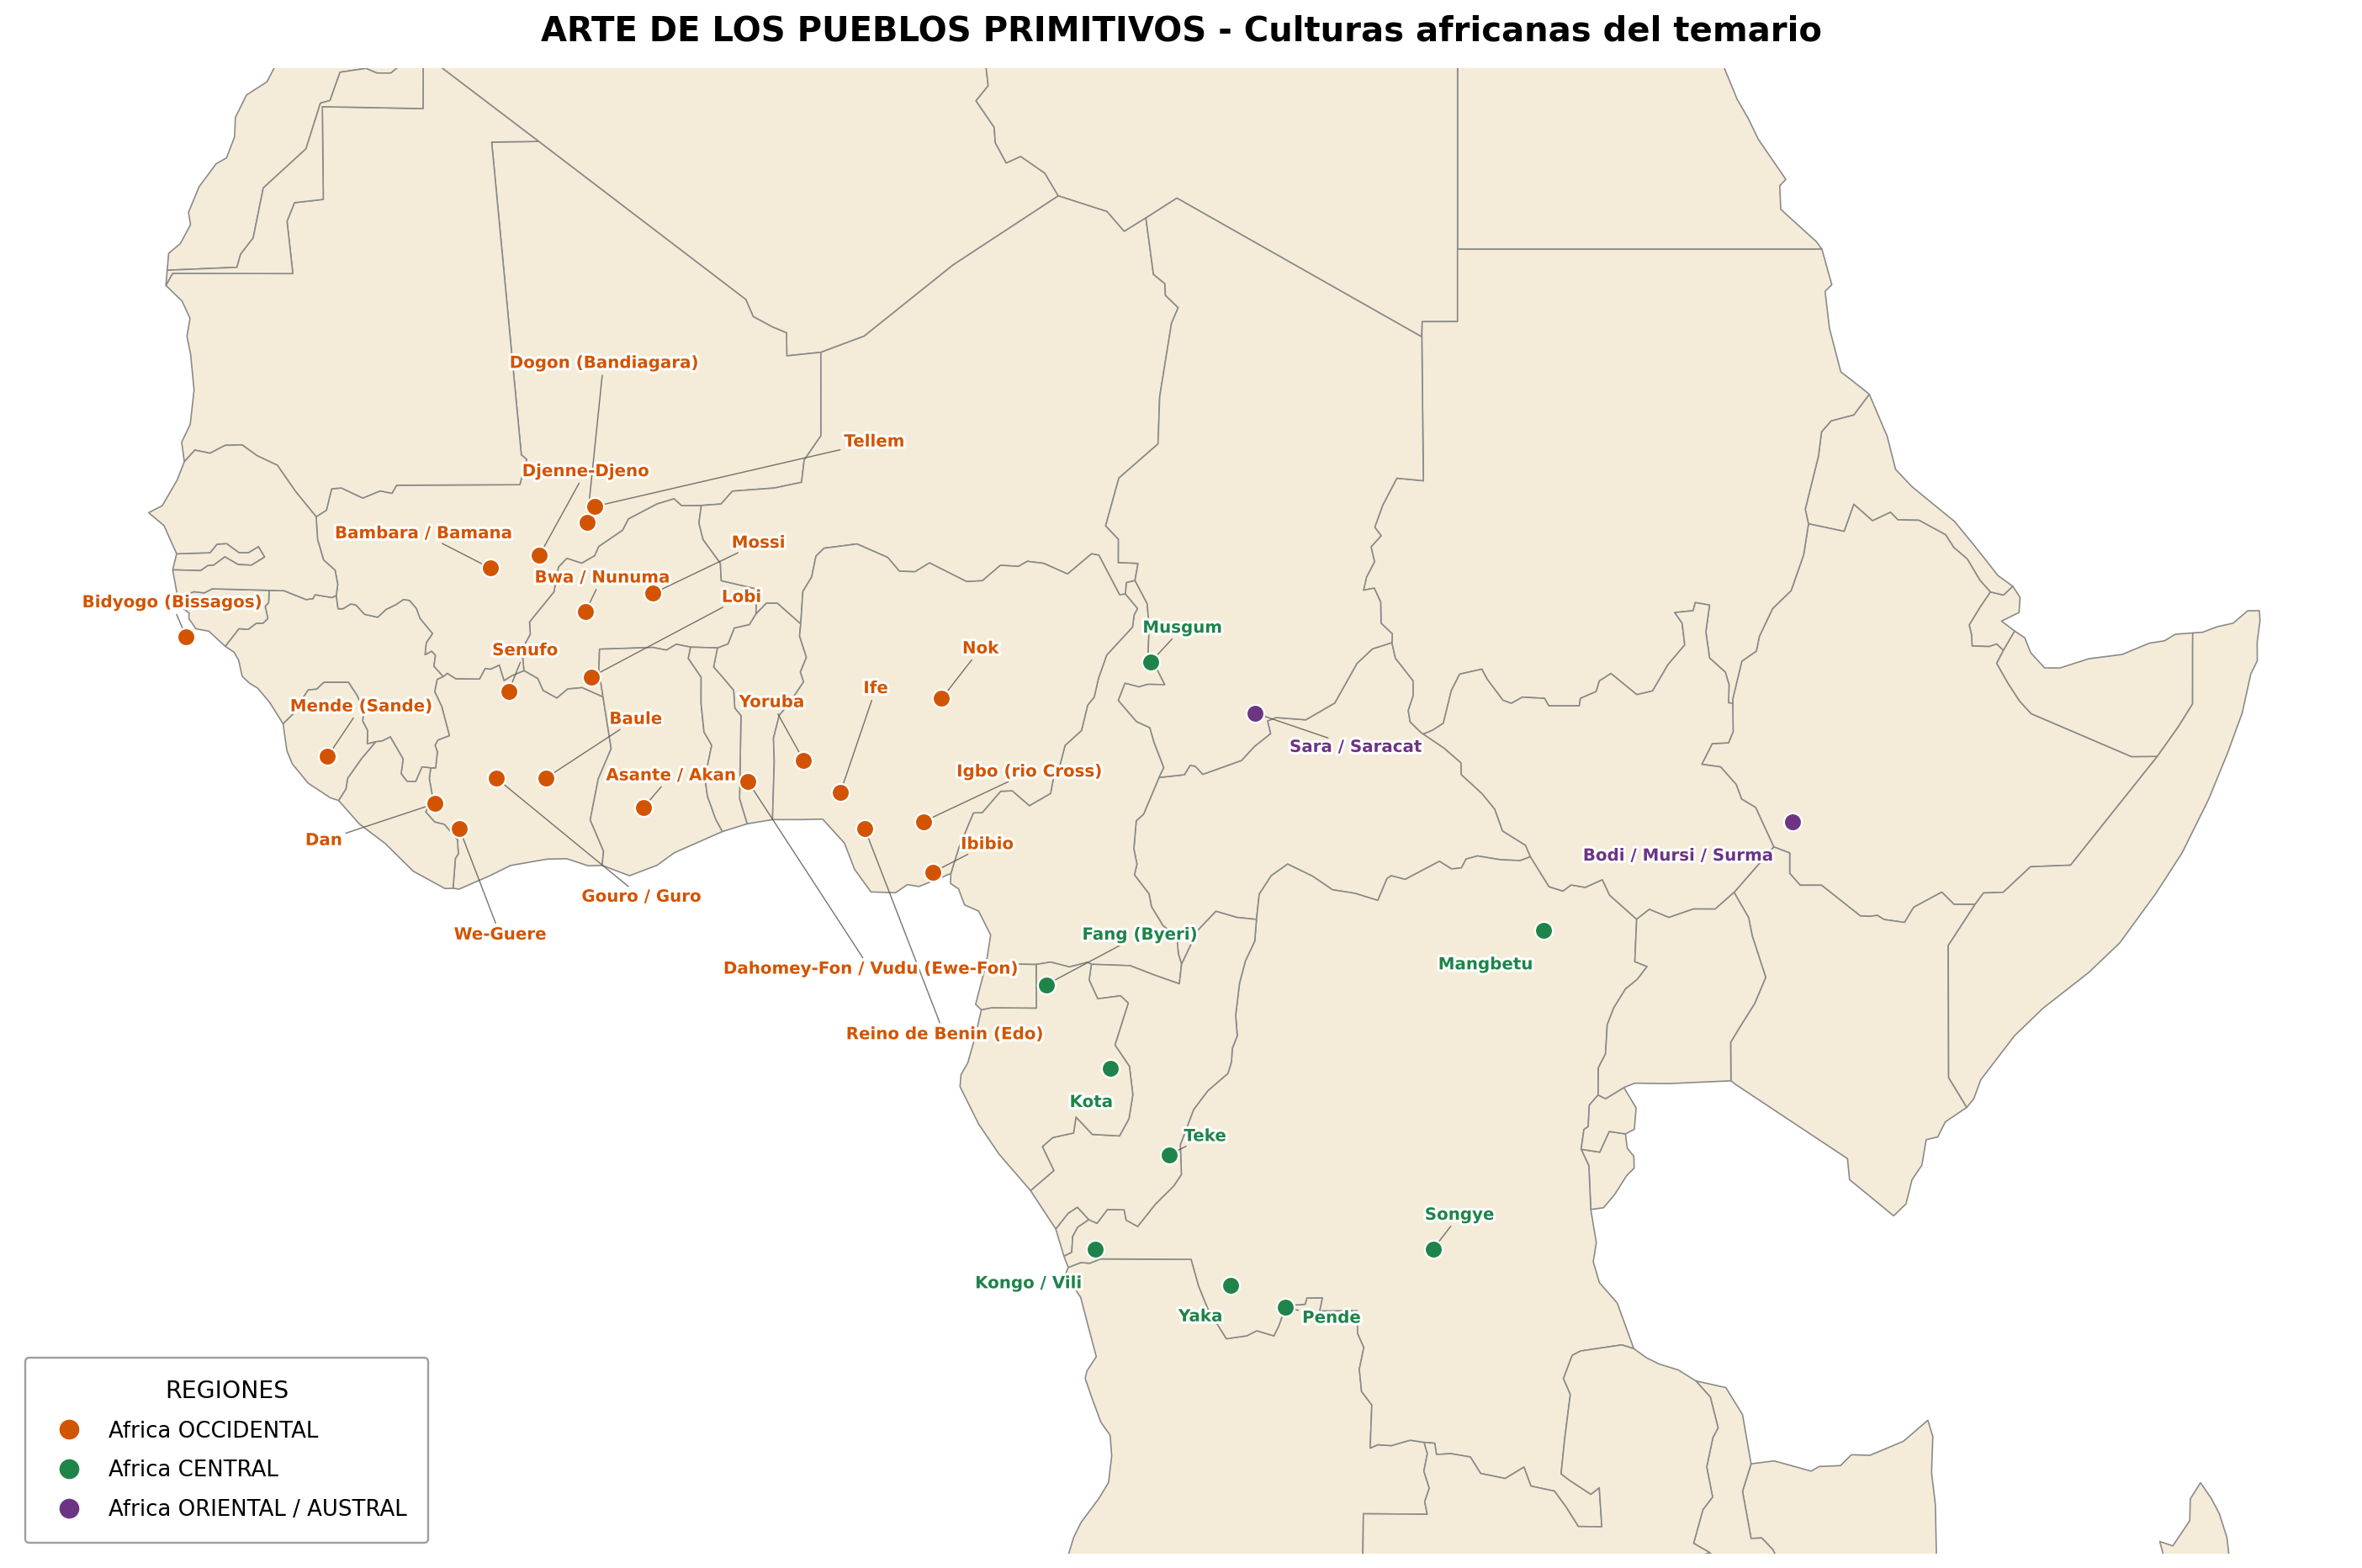
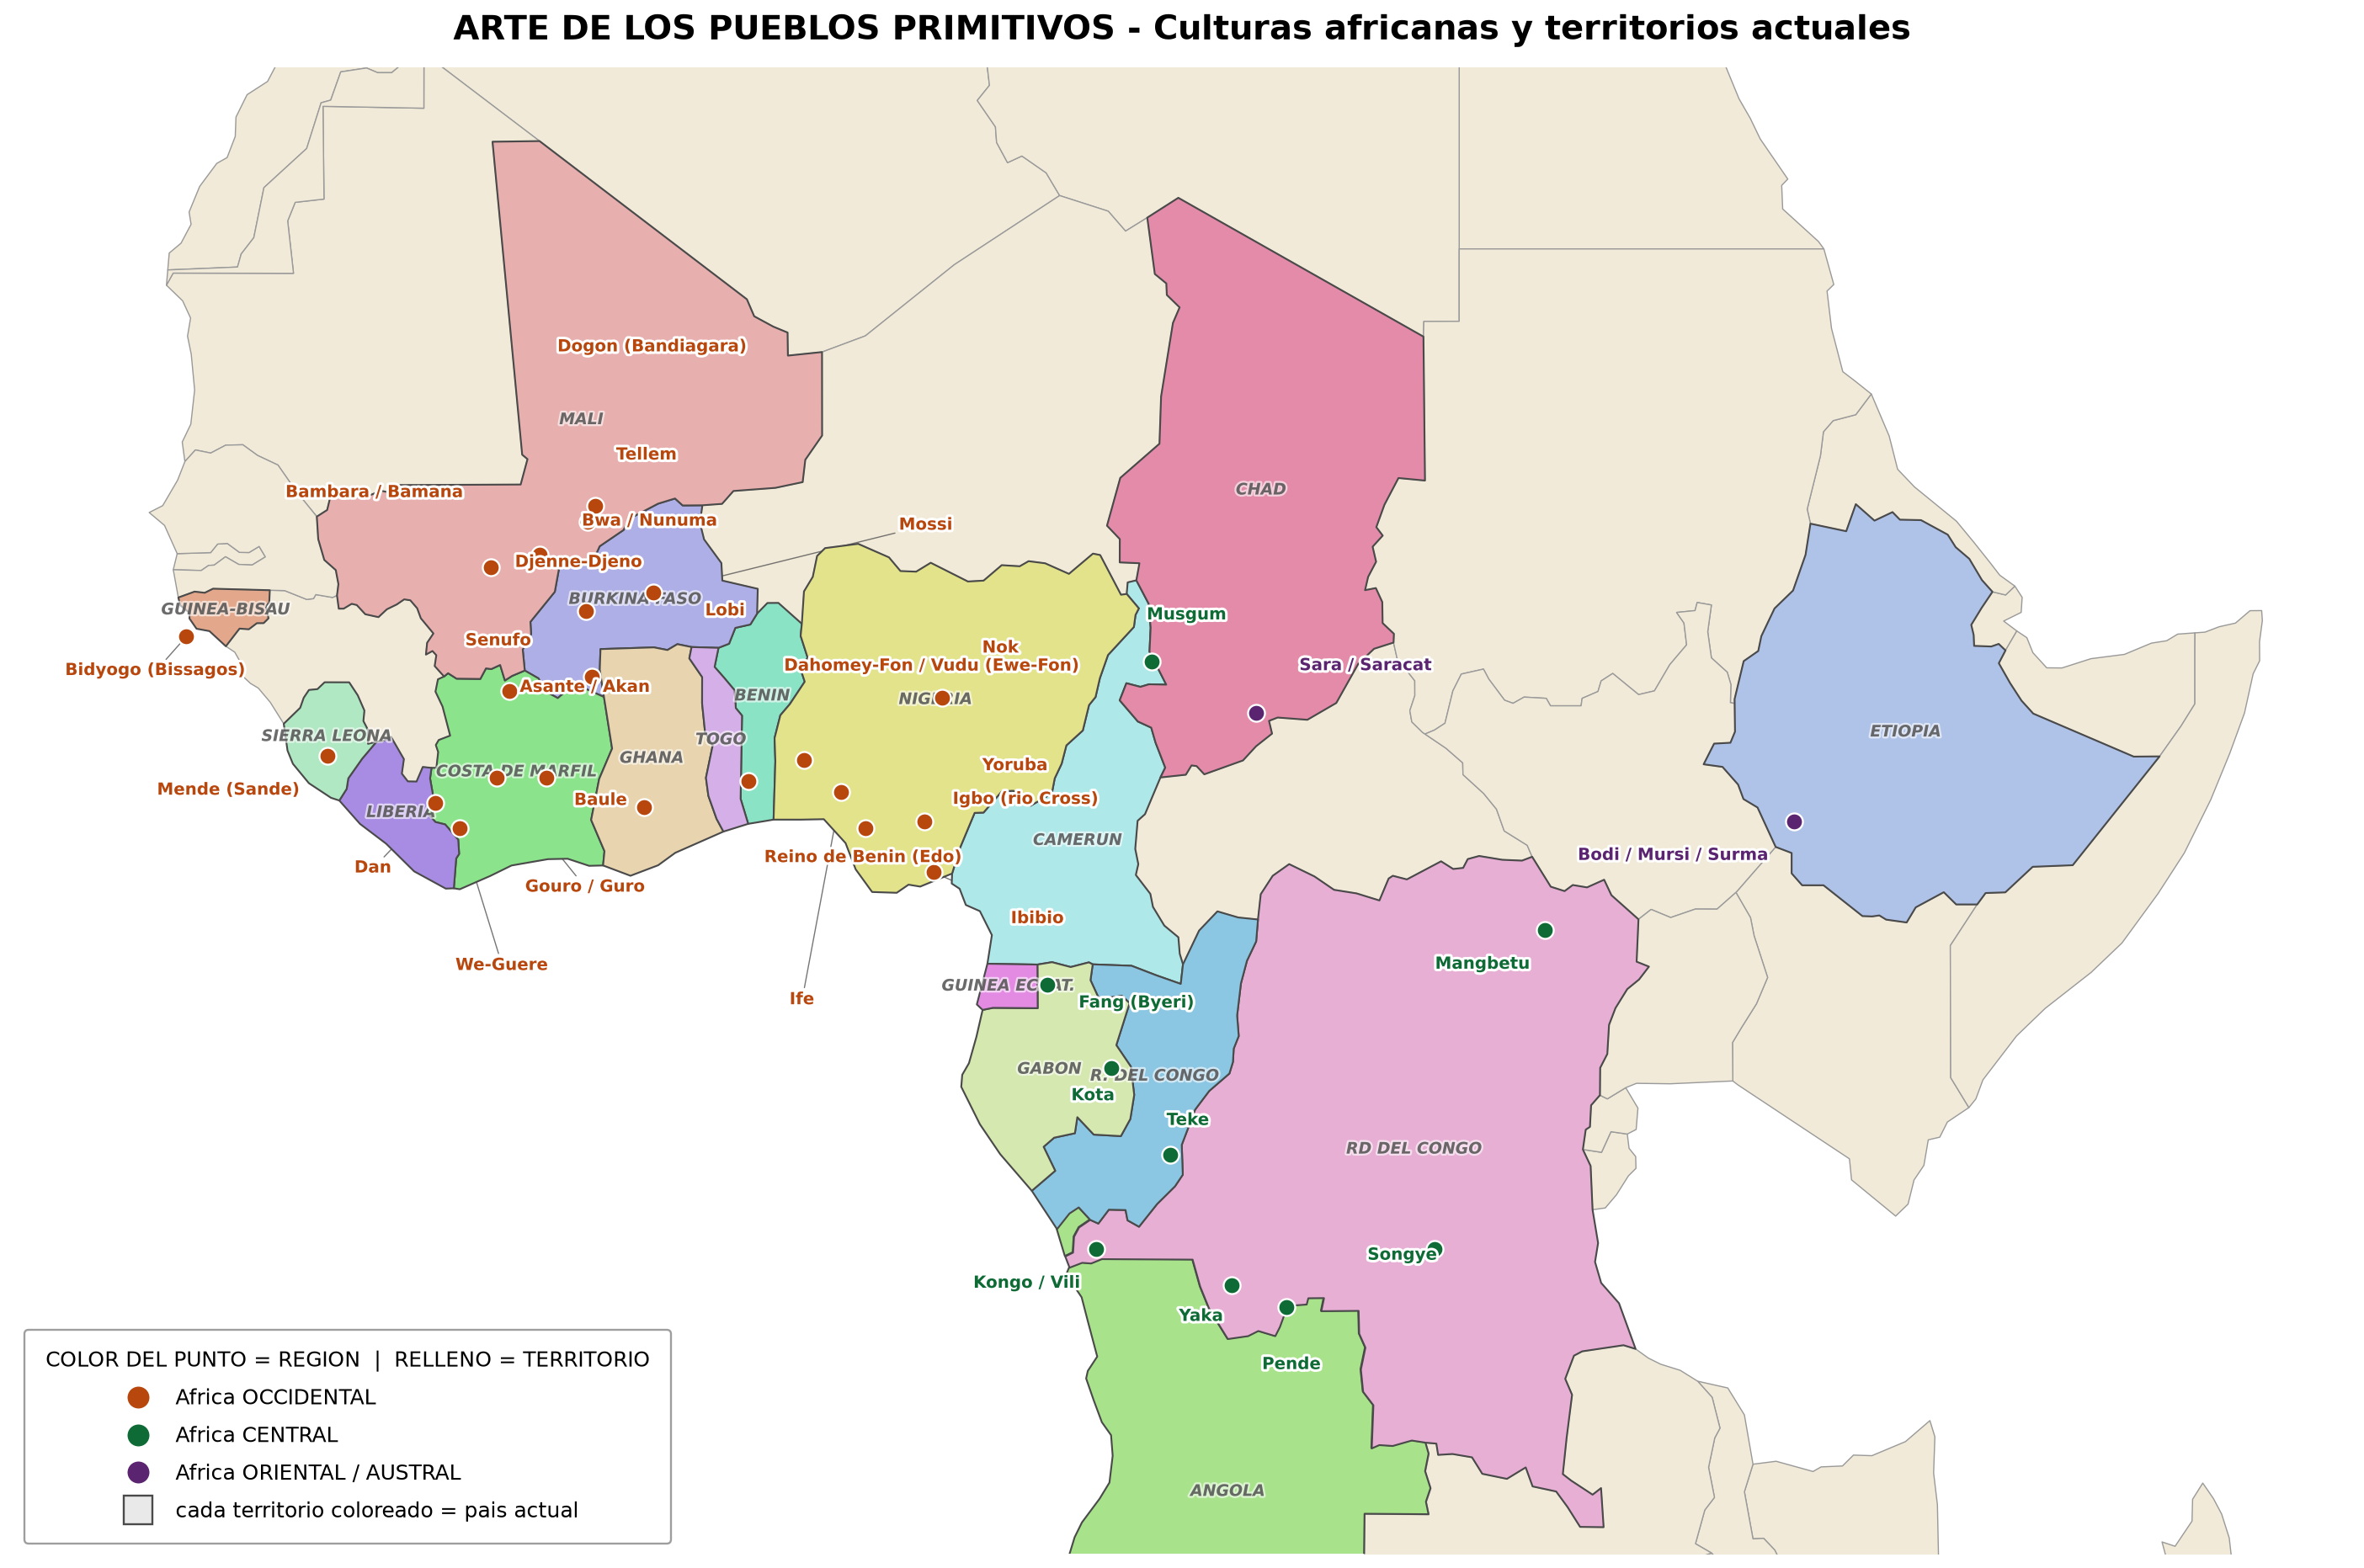
Mejorar mapa de culturas africanas y agregar .gitignore
- mapa_africa.py: coloreado de territorios, paleta de colores y adjustText para evitar solapamiento de etiquetas
- mapa_culturas_africa.png: regenerado (2808x1863)
- .gitignore: ignora world.geojson y .extract/

Changed region(s): [[0.031, 0.0934, 0.9295, 0.9962], [0.0, 0.8406, 0.2788, 0.9651], [0.1859, 0.0, 0.8056, 0.0311]]

diff --git a/scripts/mapa_africa.py b/scripts/mapa_africa.py
@@ -1,6 +1,10 @@
 #!/usr/bin/env python3
-"""Genera un mapa de Africa con las culturas del temario ubicadas geograficamente."""
+"""Genera un mapa de Africa con las culturas del temario ubicadas geograficamente,
+coloreando los territorios (paises actuales) y mostrando su nombre."""
 import json
+import os
+import colorsys
+import urllib.request
 import matplotlib
 matplotlib.use("Agg")
 import matplotlib.pyplot as plt
@@ -10,7 +14,16 @@ from matplotlib.lines import Line2D
 import matplotlib.patheffects as pe
 from adjustText import adjust_text
 
-WORLD = "/tmp/world.geojson"
+# GeoJSON de paises (propiedad "name" con nombres tipo "Ivory Coast").
+WORLD = os.path.join(os.path.dirname(__file__), "world.geojson")
+WORLD_URL = ("https://raw.githubusercontent.com/johan/world.geo.json/"
+             "master/countries.geo.json")
+
+def ensure_world():
+    """Descarga el geojson de paises si no existe en local."""
+    if not os.path.exists(WORLD):
+        print("descargando geojson de paises...")
+        urllib.request.urlretrieve(WORLD_URL, WORLD)
 
 AFRICA = {
     "Algeria","Angola","Burundi","Benin","Burkina Faso","Botswana",
@@ -24,8 +37,32 @@ AFRICA = {
     "Tunisia","Tanzania","Uganda","South Africa","Zambia","Zimbabwe",
 }
 
-# (numero, nombre, pais, lon, lat, region)
+# Territorios (paises actuales) donde se encuentran las culturas del temario.
+# geojson_name: (region, nombre_a_mostrar)
 # regiones: O=occidental, C=central, E=oriental/austral
+RELEVANT_COUNTRIES = {
+    "Mali": ("O", "MALI"),
+    "Ivory Coast": ("O", "COSTA DE MARFIL"),
+    "Burkina Faso": ("O", "BURKINA FASO"),
+    "Guinea Bissau": ("O", "GUINEA-BISAU"),
+    "Guinea-Bissau": ("O", "GUINEA-BISAU"),
+    "Sierra Leone": ("O", "SIERRA LEONA"),
+    "Liberia": ("O", "LIBERIA"),
+    "Ghana": ("O", "GHANA"),
+    "Benin": ("O", "BENIN"),
+    "Togo": ("O", "TOGO"),
+    "Nigeria": ("O", "NIGERIA"),
+    "Cameroon": ("C", "CAMERUN"),
+    "Equatorial Guinea": ("C", "GUINEA ECUAT."),
+    "Gabon": ("C", "GABON"),
+    "Republic of the Congo": ("C", "R. DEL CONGO"),
+    "Democratic Republic of the Congo": ("C", "RD DEL CONGO"),
+    "Angola": ("C", "ANGOLA"),
+    "Ethiopia": ("E", "ETIOPIA"),
+    "Chad": ("E", "CHAD"),
+}
+
+# (numero, nombre, pais, lon, lat, region)
 CULTURES = [
     # --- Africa occidental ---
     (1,  "Bambara / Bamana", "Mali", -6.5, 13.2, "O"),
@@ -65,12 +102,38 @@ CULTURES = [
     (33, "Sara / Saracat", "Chad", 18.4, 9.2, "E"),
 ]
 
-REGION_COLORS = {"O": "#d35400", "C": "#1e8449", "E": "#6c3483"}
+REGION_COLORS = {"O": "#b8470e", "C": "#0f6b35", "E": "#5b2470"}   # puntos / nombres cultura
+NEUTRAL_FILL = "#f1ead8"                                            # resto de Africa
 REGION_NAMES = {
     "O": "Africa OCCIDENTAL",
     "C": "Africa CENTRAL",
     "E": "Africa ORIENTAL / AUSTRAL",
 }
+
+def make_palette(n):
+    """Genera n colores pastel bien diferenciados (tonos repartidos por el circulo)."""
+    cols = []
+    # alternamos el orden de los tonos para que paises vecinos no queden parecidos
+    order = []
+    step = max(1, n // 3)
+    for start in range(step):
+        order.extend(range(start, n, step))
+    for rank, i in enumerate(order):
+        h = i / n
+        # variamos un poco luminosidad/saturacion segun la posicion para mas contraste
+        light = 0.80 if rank % 2 == 0 else 0.72
+        sat = 0.55 if rank % 2 == 0 else 0.62
+        r, g, b = colorsys.hls_to_rgb(h, light, sat)
+        cols.append("#%02x%02x%02x" % (int(r * 255), int(g * 255), int(b * 255)))
+    return cols
+
+# Cada TERRITORIO (pais actual) recibe un color de relleno distinto.
+TERRITORIES = []
+for _k, (_region, _label) in RELEVANT_COUNTRIES.items():
+    if _label not in TERRITORIES:
+        TERRITORIES.append(_label)
+_palette = make_palette(len(TERRITORIES))
+COUNTRY_FILL = {label: _palette[i] for i, label in enumerate(TERRITORIES)}
 
 def iter_polys(geom):
     if geom["type"] == "Polygon":
@@ -81,33 +144,85 @@ def iter_polys(geom):
             for ring in poly:
                 yield ring
 
+def ring_area(ring):
+    a = 0.0
+    n = len(ring)
+    for i in range(n - 1):
+        a += ring[i][0] * ring[i + 1][1] - ring[i + 1][0] * ring[i][1]
+    return abs(a) * 0.5
+
+def ring_centroid(ring):
+    x = [p[0] for p in ring]
+    y = [p[1] for p in ring]
+    n = len(ring)
+    A = cx = cy = 0.0
+    for i in range(n - 1):
+        cross = x[i] * y[i + 1] - x[i + 1] * y[i]
+        A += cross
+        cx += (x[i] + x[i + 1]) * cross
+        cy += (y[i] + y[i + 1]) * cross
+    A *= 0.5
+    if abs(A) < 1e-9:
+        return sum(x) / n, sum(y) / n
+    return cx / (6 * A), cy / (6 * A)
+
+def largest_ring(geom):
+    best, best_area = None, -1.0
+    for ring in iter_polys(geom):
+        a = ring_area(ring)
+        if a > best_area:
+            best_area, best = a, ring
+    return best
+
 def main():
+    ensure_world()
     world = json.load(open(WORLD))
     fig, ax = plt.subplots(figsize=(17, 12))
 
-    patches = []
+    # --- relleno de paises: territorios relevantes coloreados por region ---
     for feat in world["features"]:
         name = feat["properties"].get("name", "")
         if name not in AFRICA:
             continue
-        for ring in iter_polys(feat["geometry"]):
-            patches.append(MplPolygon(ring, closed=True))
-    pc = PatchCollection(patches, facecolor="#f4ecd8", edgecolor="#8a8a8a",
-                         linewidths=0.7, zorder=1)
-    ax.add_collection(pc)
+        rel = RELEVANT_COUNTRIES.get(name)
+        if rel:
+            region, label = rel
+            face = COUNTRY_FILL[label]
+            edge = "#4a4a4a"
+            lw = 0.9
+            z = 2
+        else:
+            face, edge, lw, z = NEUTRAL_FILL, "#9a9a9a", 0.6, 1
+        polys = [MplPolygon(r, closed=True) for r in iter_polys(feat["geometry"])]
+        pc = PatchCollection(polys, facecolor=face, edgecolor=edge,
+                             linewidths=lw, zorder=z)
+        ax.add_collection(pc)
 
-    # marcadores (punto de color por region) + nombre directamente sobre el mapa
+    # --- nombre del territorio (pais actual) sobre el mapa, como rotulo de fondo ---
+    for feat in world["features"]:
+        name = feat["properties"].get("name", "")
+        rel = RELEVANT_COUNTRIES.get(name)
+        if not rel:
+            continue
+        region, label = rel
+        cx, cy = ring_centroid(largest_ring(feat["geometry"]))
+        ax.text(cx, cy, label, color="#2b2b2b", fontsize=8.0, alpha=0.6,
+                fontstyle="italic", fontweight="bold", ha="center", va="center",
+                zorder=3,
+                path_effects=[pe.withStroke(linewidth=2.0, foreground="white")])
+
+    # --- marcadores (punto de color por region) + nombre de la cultura ---
     texts = []
     for num, name, country, lon, lat, region in CULTURES:
         color = REGION_COLORS[region]
-        ax.plot(lon, lat, "o", color=color, markersize=9,
-                markeredgecolor="white", markeredgewidth=1.0, zorder=4)
+        ax.plot(lon, lat, "o", color=color, markersize=8.5,
+                markeredgecolor="white", markeredgewidth=1.0, zorder=5)
         t = ax.text(lon, lat, name, color=color, fontsize=8.4,
-                    fontweight="bold", ha="center", va="center", zorder=6,
+                    fontweight="bold", ha="center", va="center", zorder=7,
                     path_effects=[pe.withStroke(linewidth=2.6, foreground="white")])
         texts.append(t)
 
-    # reubica los nombres para que NO se solapen, con lineas guia finas
+    # reubica los nombres de cultura para que NO se solapen, con lineas guia finas
     adjust_text(
         texts, ax=ax,
         expand=(1.25, 1.6),
@@ -119,16 +234,22 @@ def main():
     ax.set_ylim(-14, 27)
     ax.set_aspect(1.18)
     ax.axis("off")
-    ax.set_title("ARTE DE LOS PUEBLOS PRIMITIVOS - Culturas africanas del temario",
+    ax.set_title("ARTE DE LOS PUEBLOS PRIMITIVOS - Culturas africanas y territorios actuales",
                  fontsize=17, fontweight="bold", pad=14)
 
-    # leyenda compacta: solo clave de colores por region (esquina inferior izq.)
+    # leyenda: el color del PUNTO/nombre indica la region; cada territorio tiene su color
     handles = [Line2D([0], [0], marker="o", color="none",
-                       markerfacecolor=REGION_COLORS[r], markersize=11,
-                       markeredgecolor="white", label=REGION_NAMES[r])
+                      markerfacecolor=REGION_COLORS[r], markersize=12,
+                      markeredgecolor="white",
+                      label=REGION_NAMES[r])
                for r in ("O", "C", "E")]
-    leg = ax.legend(handles=handles, loc="lower left", fontsize=11,
-                    title="REGIONES", title_fontsize=12, frameon=True,
+    handles.append(Line2D([0], [0], marker="s", color="none",
+                          markerfacecolor="#e9e9e9", markersize=14,
+                          markeredgecolor="#4a4a4a",
+                          label="cada territorio coloreado = pais actual"))
+    leg = ax.legend(handles=handles, loc="lower left", fontsize=10.5,
+                    title="COLOR DEL PUNTO = REGION  |  RELLENO = TERRITORIO",
+                    title_fontsize=10.5, frameon=True,
                     framealpha=0.95, borderpad=1.0, labelspacing=0.8)
     leg.get_frame().set_edgecolor("#999999")
 